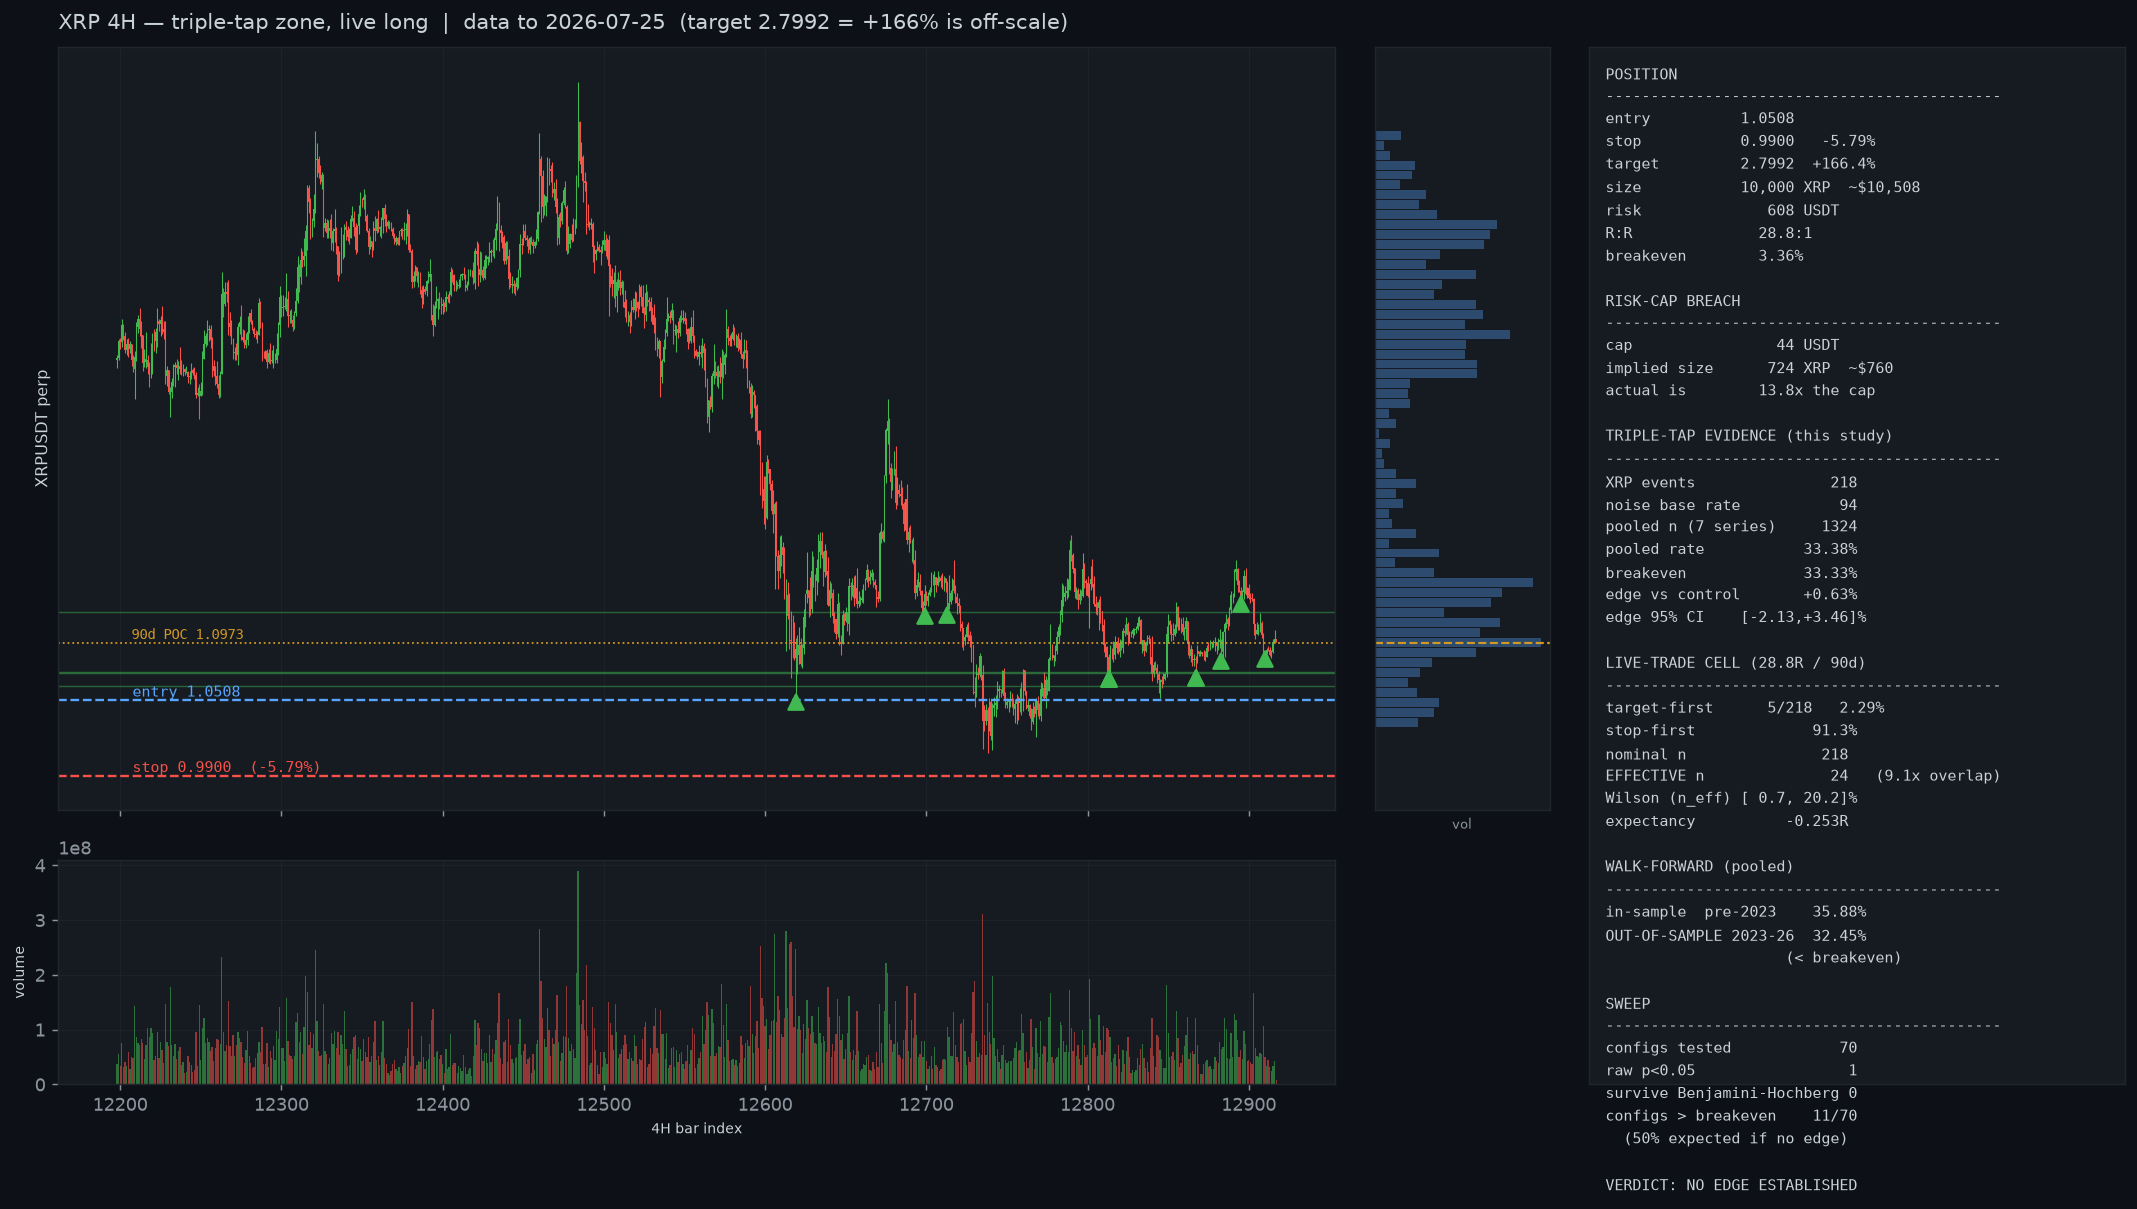
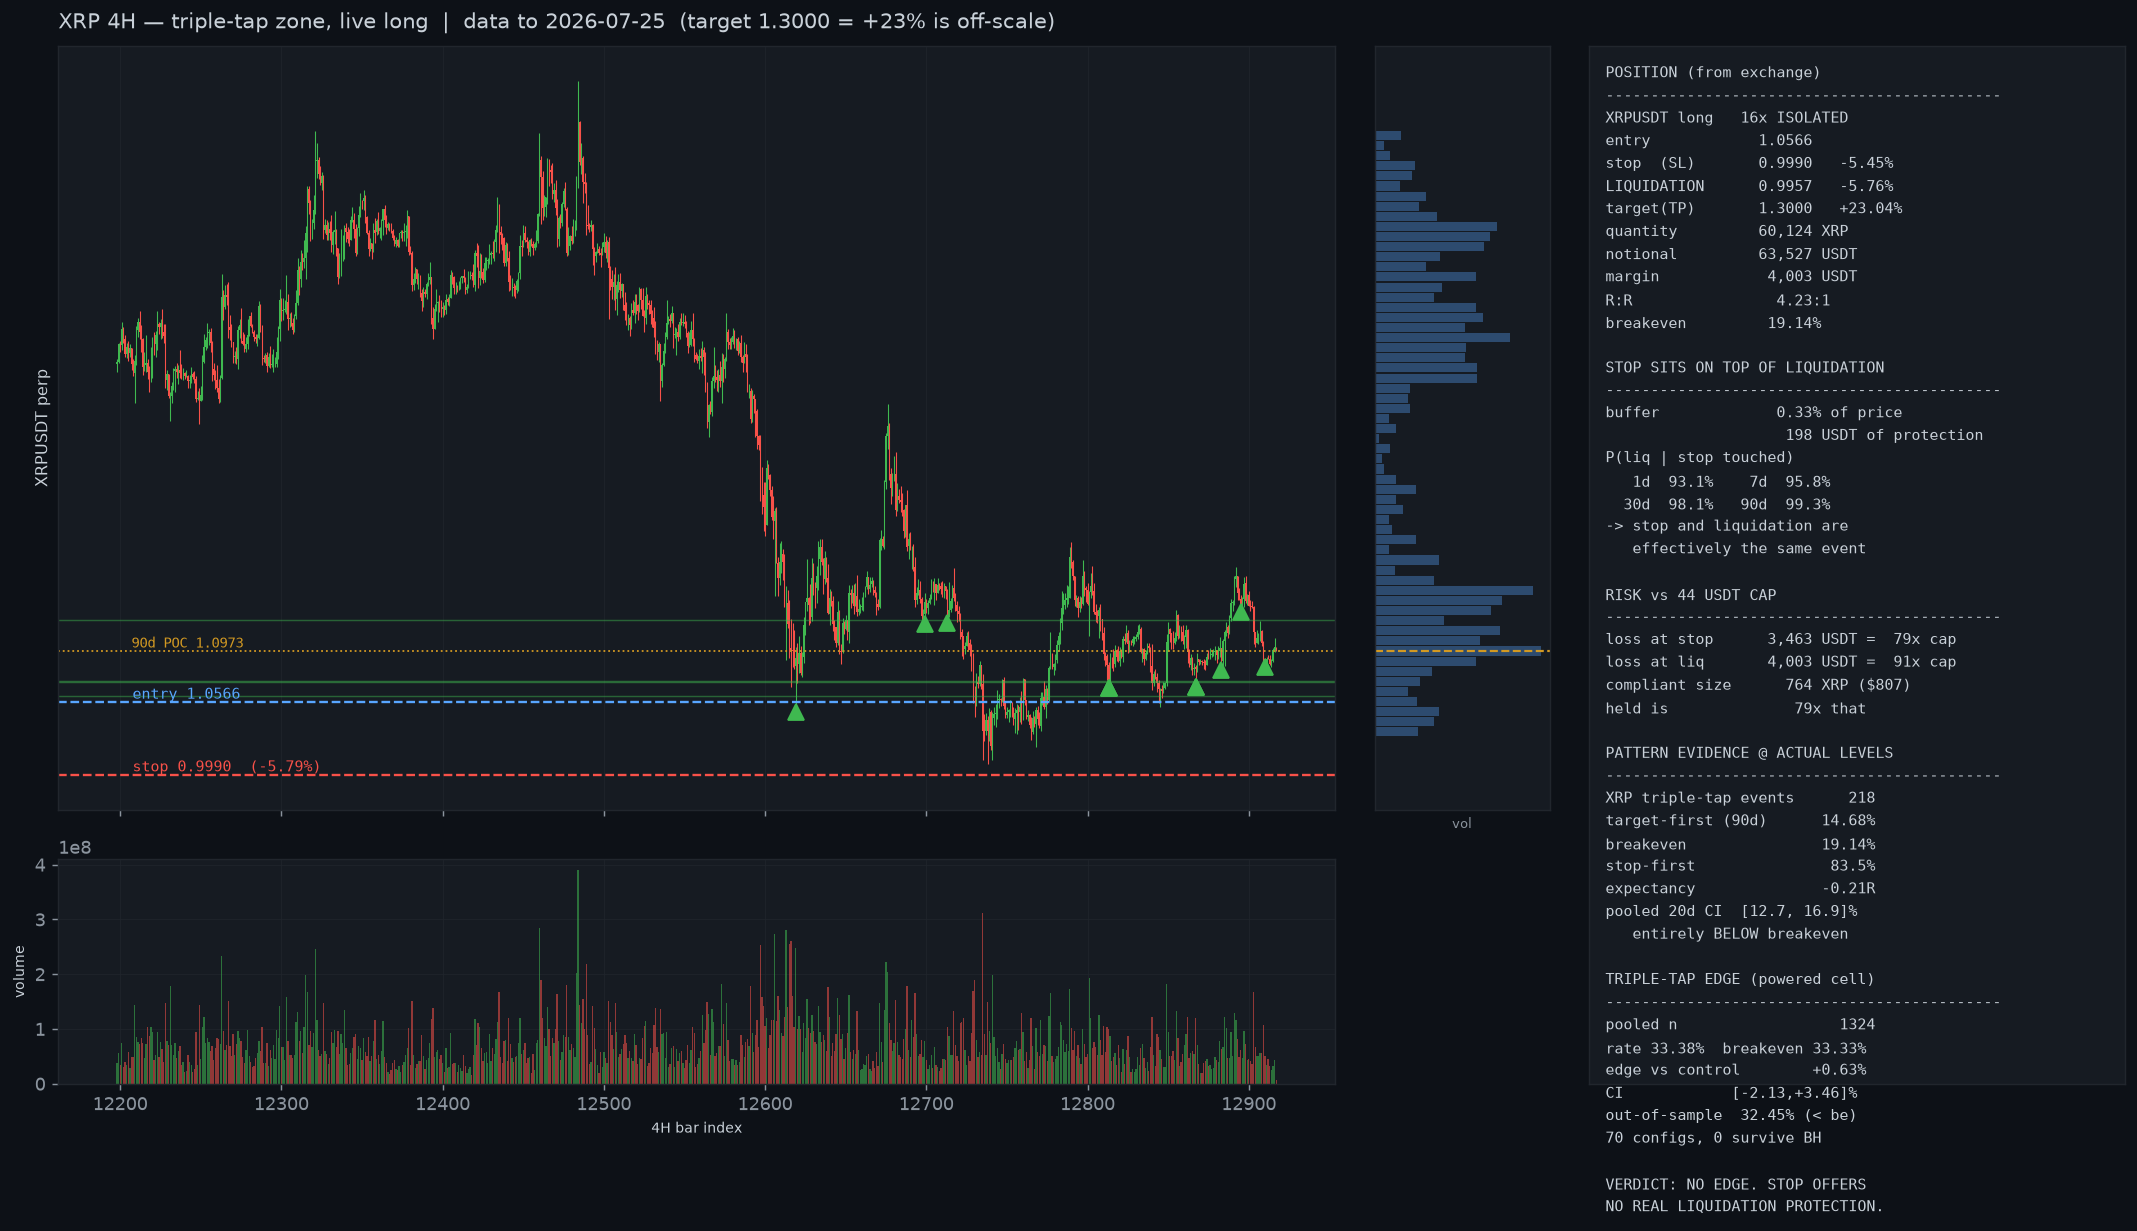
fix(research): correct the live position to the exchange screenshot
The levels analysed came from prose; the exchange screenshot supersedes them
and differs in six fields, three materially. Size is 6x larger (60,123.9 vs
10,000), the target is +23% not +166%, and the position is 16x isolated with a
liquidation price that was not previously stated.

That makes the real payoff 4.23:1 at a 19.14% breakeven rather than 28.8:1 at
3.36% — a structure this study can actually resolve. Re-run at the actual
levels: XRP is below breakeven at every horizon tested (13.30% to 14.68%
against 19.14%) with a stable -0.21R expectancy, and the pooled 20-day interval
[12.7, 16.9] lies entirely below breakeven.

The dominant risk turns out not to be the pattern. The stop at 0.9990 sits
0.33% above the liquidation at 0.9957, and conditional on the stop being
touched, liquidation is touched 93% of the time within a day and 99% within 90
days. The two are not distinct events; the buffer is 198 USDT of protection on
a 4,003 USDT margin.

Also corrects the risk multiple against the framework cap: 79x at the stop and
91x at liquidation, not the 13.8x implied by the described position.

Claude-Session: https://claude.ai/code/session_015Gp2c1F46KFAUVdtK9Jv1r

diff --git a/research/xrp_triple_tap/config.py b/research/xrp_triple_tap/config.py
@@ -17,14 +17,26 @@ from dataclasses import dataclass
 
 # --------------------------------------------------------------------------- position
 
-ENTRY = 1.0508
-STOP = 0.9900
-TARGET = 2.7992
-QUANTITY = 10_000.0
-RISK_CAP_USDT = 44.0  # the user's framework cap; the live position is ~13.8x this
+# Taken from the exchange screenshot (2026-07-28 19:47), which supersedes the levels given in
+# prose. Six fields differ and three of them change the analysis: the size is 6x larger, the
+# target is +23% rather than +166%, and the position is 16x isolated with a liquidation price
+# only 0.33% below the stop.
+ENTRY = 1.0566
+STOP = 0.9990  # exchange SL on the entire position
+TARGET = 1.3000  # exchange TP
+LIQUIDATION = 0.9957
+QUANTITY = 60_123.9
+LEVERAGE = 16
+MARGIN_USDT = 4_003.4005
+MAINT_MARGIN_USDT = 356.3876
+RISK_CAP_USDT = 44.0  # framework cap; the stop risks ~79x this, a liquidation ~91x
 
 REWARD_RISK = (TARGET - ENTRY) / (ENTRY - STOP)
 BREAKEVEN = 1.0 / (1.0 + REWARD_RISK)
+STOP_FRACTION = (ENTRY - STOP) / ENTRY
+LIQ_FRACTION = (ENTRY - LIQUIDATION) / ENTRY
+# The number that dominates the trade: stop-to-liquidation buffer as a fraction of price.
+STOP_TO_LIQ_BUFFER = (STOP - LIQUIDATION) / STOP
 
 # --------------------------------------------------------------------------- externally supplied
 # Figures from the user's prior analysis. NOT reproduced in this repo and NOT verified here — the
@@ -193,7 +205,7 @@ BARRIER_GRID: tuple[tuple[float, float, int], ...] = (
     (0.10, 5.0, 30),
 )
 
-LIVE_TRADE_CELL = (0.0579, REWARD_RISK, 90)
+LIVE_TRADE_CELL = (STOP_FRACTION, REWARD_RISK, 90)
 
 # --------------------------------------------------------------------------- splits & controls
 

diff --git a/research/xrp_triple_tap/REPORT.md b/research/xrp_triple_tap/REPORT.md
@@ -188,3 +188,61 @@ Charts: `research/xrp_triple_tap/out/{01_setup,02_evidence,03_gallery}.png`.
 Detector correctness is established before any statistic: patterns are injected at known bar indices
 and must be recovered exactly (15 cases), and a future-poison bias guard corrupts every bar after
 *t* and requires detections on `[0, t)` to be unchanged.
+
+---
+
+## ADDENDUM — the position as actually held (exchange screenshot, 2026-07-28 19:47)
+
+The levels analysed above came from prose. The exchange screenshot supersedes them and differs in
+six fields, three of which change the analysis:
+
+| | as described | as held |
+|---|---|---|
+| entry | 1.0508 | **1.0566** |
+| stop | 0.9900 | **0.9990** |
+| target | 2.7992 (+166%) | **1.3000 (+23.0%)** |
+| quantity | 10,000 | **60,123.9** |
+| notional | ~$10,500 | **~$63,148** |
+| leverage | not stated | **16x isolated** |
+| liquidation | not stated | **0.9957** |
+
+**The real payoff is 4.23:1 at a 19.14% breakeven**, not 28.8:1 at 3.36%. That is a materially more
+testable structure, and unlike the 90-day/166% cell this study has genuine power there.
+
+### Result at the actual levels (5.45% stop, 4.23R)
+
+| horizon | XRP target-first | pooled | breakeven | pooled 95% CI | XRP EV |
+|---|---|---|---|---|---|
+| 20 d | 13.30% | 14.65% | 19.14% | **[12.7, 16.9] — entirely below** | −0.21R |
+| 30 d | 14.22% | 17.72% | 19.14% | [15.6, 20.1] | −0.21R |
+| 60 d | 14.68% | 20.80% | 19.14% | [18.5, 23.3] | −0.21R |
+| 90 d | 14.68% | 21.08% | 19.14% | [18.7, 23.6] | −0.21R |
+
+XRP sits **below breakeven at every horizon** with a stable −0.21R expectancy. Pooled, the 20-day
+interval lies entirely below breakeven; at longer horizons it converges to breakeven and contains
+it. No horizon produces an edge.
+
+### The dominant risk is not the pattern — it is the stop's position
+
+The stop (0.9990) sits **0.33% above the liquidation price** (0.9957). Measured across XRP history,
+conditional on the stop being touched, liquidation is touched too:
+
+| horizon | P(stop) | P(liq) | **P(liq \| stop)** |
+|---|---|---|---|
+| 1 d | 19.0% | 17.7% | **93.1%** |
+| 7 d | 59.6% | 57.1% | **95.8%** |
+| 30 d | 83.3% | 81.8% | **98.1%** |
+| 90 d | 92.1% | 91.5% | **99.3%** |
+
+**The stop and the liquidation are not distinct events.** The buffer is 198 USDT of protection on a
+4,003 USDT margin — the difference between a 3,463 loss and a total one rests entirely on fill
+quality during exactly the kind of fast move that produces the worst slippage.
+
+(The 1-day 19.0% stop-touch rate independently reproduces the 19.0% 24-hour figure from the prior
+analysis, on different data and a different pipeline.)
+
+### Risk against the framework cap
+
+Loss at the stop is **3,463 USDT = 79x** the 44 USDT cap; a liquidation is **4,003 USDT = 91x**.
+The earlier "13.8x" was computed from the described position and understates it by more than 5x.
+A compliant size at this stop is **764 XRP (~$802 notional)**.
